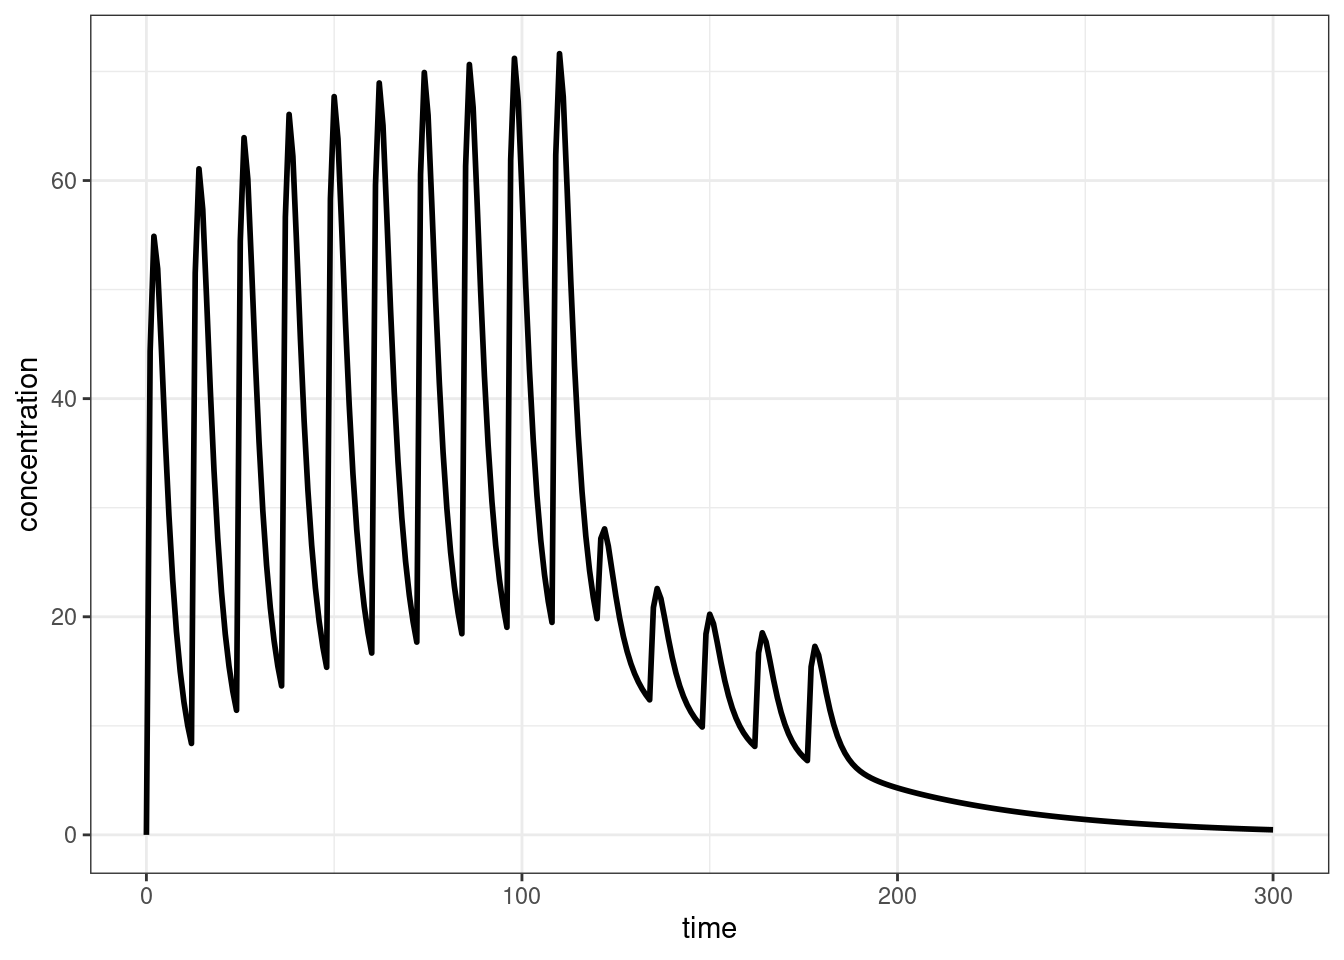
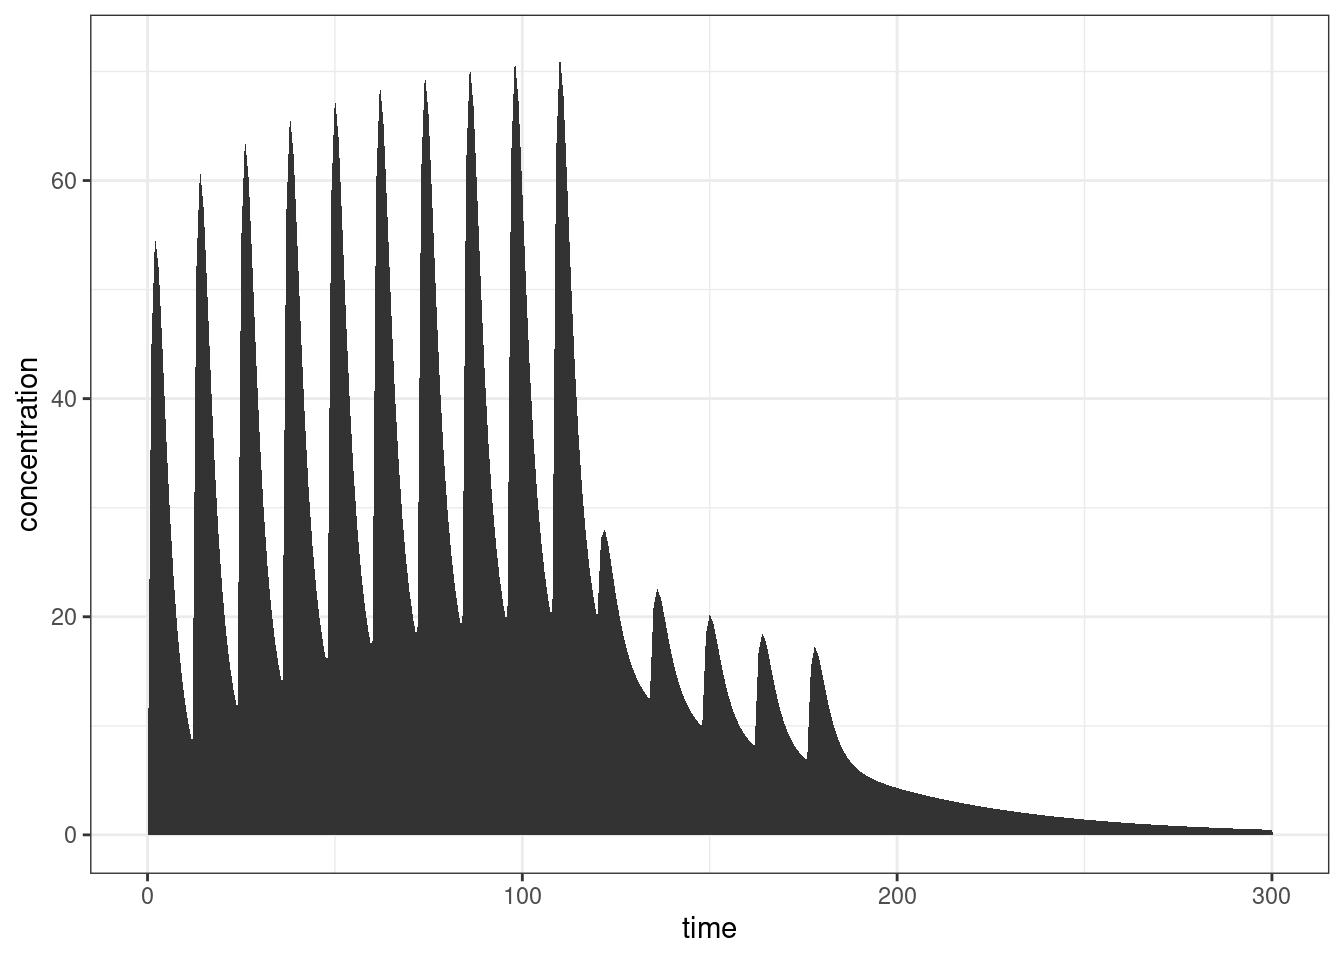
moar updating

Changed region(s): [[0.0938, 0.0625, 0.9375, 0.875], [0.9375, 0.9062, 0.9688, 0.9375], [0.375, 0.9062, 0.4062, 0.9375]]

diff --git a/_site/posts/2023-08-20_rxode2/index.html b/_site/posts/2023-08-20_rxode2/index.html
@@ -207,7 +207,8 @@ pre > code.sourceCode > span > a:first-child::before { text-decoration: underlin
   <li><a href="#the-rxode2-mini-language" id="toc-the-rxode2-mini-language" class="nav-link" data-scroll-target="#the-rxode2-mini-language">The rxode2 mini-language</a></li>
   <li><a href="#the-rxode2-model-object" id="toc-the-rxode2-model-object" class="nav-link" data-scroll-target="#the-rxode2-model-object">The rxode2 model object</a></li>
   <li><a href="#event-tables" id="toc-event-tables" class="nav-link" data-scroll-target="#event-tables">Event tables</a></li>
-  <li><a href="#running-a-small-simulation" id="toc-running-a-small-simulation" class="nav-link" data-scroll-target="#running-a-small-simulation">Running a small simulation</a></li>
+  <li><a href="#simulating-one-subject" id="toc-simulating-one-subject" class="nav-link" data-scroll-target="#simulating-one-subject">Simulating one subject</a></li>
+  <li><a href="#simulating-multiple-subjects" id="toc-simulating-multiple-subjects" class="nav-link" data-scroll-target="#simulating-multiple-subjects">Simulating multiple subjects</a></li>
   </ul>
 </nav>
 </nav>
@@ -301,8 +302,8 @@ pre > code.sourceCode > span > a:first-child::before { text-decoration: underlin
 <p>Like many R packages that generate compiled code, rxode2 manages the compiled object for you. The long unintelligible “name” assigned to our model gives us the hint we need to find the compiled objects. Within the R session temp directory, the rxode2 package has created an “rxode2” subfolder.<a href="#fn8" class="footnote-ref" id="fnref8" role="doc-noteref"><sup>8</sup></a> And indeed, if I take a peek at the contents of this folder, I find something with an identical name:</p>
 <div class="cell">
 <div class="sourceCode cell-code" id="cb8"><pre class="sourceCode r code-with-copy"><code class="sourceCode r"><span id="cb8-1"><a href="#cb8-1" aria-hidden="true" tabindex="-1"></a>fs<span class="sc">::</span><span class="fu">dir_ls</span>(fs<span class="sc">::</span><span class="fu">path</span>(<span class="fu">tempdir</span>(), <span class="st">"rxode2"</span>))</span></code><button title="Copy to Clipboard" class="code-copy-button"><i class="bi"></i></button></pre></div>
-<pre class="fansi fansi-output"><code>/tmp/Rtmp09SH1Q/rxode2/018374b1ca9115fbc3be9f765f32e47f.md5
-<span style="color: #0000BB; font-weight: bold;">/tmp/Rtmp09SH1Q/rxode2/rx_7b738a16dd646d432336a380787bd163__.rxd</span>
+<pre class="fansi fansi-output"><code>/tmp/Rtmpf9y5Hc/rxode2/018374b1ca9115fbc3be9f765f32e47f.md5
+<span style="color: #0000BB; font-weight: bold;">/tmp/Rtmpf9y5Hc/rxode2/rx_7b738a16dd646d432336a380787bd163__.rxd</span>
 </code></pre>
 </div>
 <p>Okay, makes sense.</p>
@@ -392,8 +393,8 @@ multiple doses in `addl` columns, expand with <span style="color: #BBBB00;">x</s
 <span id="cb13-4"><a href="#cb13-4" aria-hidden="true" tabindex="-1"></a>  <span class="fu">et</span>(<span class="at">time =</span> <span class="dv">0</span><span class="sc">:</span><span class="dv">300</span>)</span></code><button title="Copy to Clipboard" class="code-copy-button"><i class="bi"></i></button></pre></div>
 </div>
 </section>
-<section id="running-a-small-simulation" class="level2">
-<h2 class="anchored" data-anchor-id="running-a-small-simulation">Running a small simulation</h2>
+<section id="simulating-one-subject" class="level2">
+<h2 class="anchored" data-anchor-id="simulating-one-subject">Simulating one subject</h2>
 <div class="cell">
 <div class="sourceCode cell-code" id="cb14"><pre class="sourceCode r code-with-copy"><code class="sourceCode r"><span id="cb14-1"><a href="#cb14-1" aria-hidden="true" tabindex="-1"></a><span class="fu">library</span>(tibble)</span>
 <span id="cb14-2"><a href="#cb14-2" aria-hidden="true" tabindex="-1"></a><span class="fu">library</span>(ggplot2)</span></code><button title="Copy to Clipboard" class="code-copy-button"><i class="bi"></i></button></pre></div>
@@ -459,13 +460,89 @@ multiple doses in `addl` columns, expand with <span style="color: #BBBB00;">x</s
 <p>Extremely pretty print method notwithstanding, under the hood it’s nothing fancy. It’s a regular data frame with a few extra classes and some metadata, which means we can pass it straight to ggplot without any coercion, and draw a pretty picture:</p>
 <div class="cell">
 <div class="sourceCode cell-code" id="cb20"><pre class="sourceCode r code-with-copy"><code class="sourceCode r"><span id="cb20-1"><a href="#cb20-1" aria-hidden="true" tabindex="-1"></a><span class="fu">ggplot</span>(out, <span class="fu">aes</span>(time, CP)) <span class="sc">+</span> </span>
-<span id="cb20-2"><a href="#cb20-2" aria-hidden="true" tabindex="-1"></a>  <span class="fu">geom_line</span>(<span class="at">linewidth =</span> <span class="dv">1</span>) <span class="sc">+</span> </span>
+<span id="cb20-2"><a href="#cb20-2" aria-hidden="true" tabindex="-1"></a>  <span class="fu">geom_area</span>(<span class="at">linewidth =</span> <span class="dv">1</span>) <span class="sc">+</span> </span>
 <span id="cb20-3"><a href="#cb20-3" aria-hidden="true" tabindex="-1"></a>  <span class="fu">ylab</span>(<span class="st">"concentration"</span>) <span class="sc">+</span></span>
 <span id="cb20-4"><a href="#cb20-4" aria-hidden="true" tabindex="-1"></a>  <span class="fu">theme_bw</span>()</span></code><button title="Copy to Clipboard" class="code-copy-button"><i class="bi"></i></button></pre></div>
 <div class="cell-output-display">
 <p><img src="index_files/figure-html/unnamed-chunk-16-1.png" class="img-fluid" width="672"></p>
 </div>
 </div>
+</section>
+<section id="simulating-multiple-subjects" class="level2">
+<h2 class="anchored" data-anchor-id="simulating-multiple-subjects">Simulating multiple subjects</h2>
+<div class="cell">
+<div class="sourceCode cell-code" id="cb21"><pre class="sourceCode r code-with-copy"><code class="sourceCode r"><span id="cb21-1"><a href="#cb21-1" aria-hidden="true" tabindex="-1"></a>params <span class="ot">&lt;-</span> <span class="fu">tibble</span>(</span>
+<span id="cb21-2"><a href="#cb21-2" aria-hidden="true" tabindex="-1"></a>  <span class="at">KA =</span> <span class="fu">rnorm</span>(<span class="dv">20</span>, <span class="at">mean =</span> <span class="fl">0.294</span>, <span class="at">sd =</span> <span class="fl">0.03</span>),</span>
+<span id="cb21-3"><a href="#cb21-3" aria-hidden="true" tabindex="-1"></a>  <span class="at">CL =</span> <span class="fu">rnorm</span>(<span class="dv">20</span>, <span class="at">mean =</span> <span class="fl">18.6</span>, <span class="at">sd =</span> <span class="dv">2</span>),</span>
+<span id="cb21-4"><a href="#cb21-4" aria-hidden="true" tabindex="-1"></a>  <span class="at">VC =</span> <span class="fu">rnorm</span>(<span class="dv">20</span>, <span class="at">mean =</span> <span class="fl">40.2</span>, <span class="at">sd =</span> <span class="dv">2</span>),</span>
+<span id="cb21-5"><a href="#cb21-5" aria-hidden="true" tabindex="-1"></a>  <span class="at">VP =</span> <span class="fu">rnorm</span>(<span class="dv">20</span>, <span class="at">mean =</span> <span class="dv">297</span>, <span class="at">sd =</span> <span class="dv">10</span>),</span>
+<span id="cb21-6"><a href="#cb21-6" aria-hidden="true" tabindex="-1"></a>  <span class="at">Q =</span> <span class="fu">rnorm</span>(<span class="dv">20</span>, <span class="at">mean =</span> <span class="fl">10.5</span>, <span class="at">sd =</span> <span class="dv">1</span>)</span>
+<span id="cb21-7"><a href="#cb21-7" aria-hidden="true" tabindex="-1"></a>)</span>
+<span id="cb21-8"><a href="#cb21-8" aria-hidden="true" tabindex="-1"></a></span>
+<span id="cb21-9"><a href="#cb21-9" aria-hidden="true" tabindex="-1"></a>out <span class="ot">&lt;-</span> <span class="fu">solve</span>(mod, params, events)</span></code><button title="Copy to Clipboard" class="code-copy-button"><i class="bi"></i></button></pre></div>
+</div>
+<p>I’ll show you the <code>out</code> object in a moment, but it’s probably easier to understand it if we start with a plot:</p>
+<div class="cell">
+<div class="sourceCode cell-code" id="cb22"><pre class="sourceCode r code-with-copy"><code class="sourceCode r"><span id="cb22-1"><a href="#cb22-1" aria-hidden="true" tabindex="-1"></a>out <span class="sc">|&gt;</span></span>
+<span id="cb22-2"><a href="#cb22-2" aria-hidden="true" tabindex="-1"></a>  dplyr<span class="sc">::</span><span class="fu">mutate</span>(<span class="at">sim.id =</span> <span class="fu">paste</span>(<span class="st">"Subject"</span>, sim.id)) <span class="sc">|&gt;</span></span>
+<span id="cb22-3"><a href="#cb22-3" aria-hidden="true" tabindex="-1"></a>  <span class="fu">ggplot</span>(<span class="fu">aes</span>(time, CP, <span class="at">fill =</span> sim.id)) <span class="sc">+</span> </span>
+<span id="cb22-4"><a href="#cb22-4" aria-hidden="true" tabindex="-1"></a>  <span class="fu">geom_area</span>(<span class="at">linewidth =</span> <span class="dv">1</span>, <span class="at">show.legend =</span> <span class="cn">FALSE</span>) <span class="sc">+</span> </span>
+<span id="cb22-5"><a href="#cb22-5" aria-hidden="true" tabindex="-1"></a>  <span class="fu">facet_wrap</span>(<span class="sc">~</span> sim.id, <span class="at">nrow =</span> <span class="dv">5</span>) <span class="sc">+</span> </span>
+<span id="cb22-6"><a href="#cb22-6" aria-hidden="true" tabindex="-1"></a>  <span class="fu">labs</span>(<span class="at">x =</span> <span class="st">"Time"</span>, <span class="at">y =</span> <span class="st">"Concentration"</span>) <span class="sc">+</span></span>
+<span id="cb22-7"><a href="#cb22-7" aria-hidden="true" tabindex="-1"></a>  <span class="fu">theme_bw</span>()</span></code><button title="Copy to Clipboard" class="code-copy-button"><i class="bi"></i></button></pre></div>
+<div class="cell-output-display">
+<p><img src="index_files/figure-html/unnamed-chunk-18-1.png" class="img-fluid" width="672"></p>
+</div>
+</div>
+<p>As you can see, all 20 subjects have qualitatively similar profiles, but there are noticeable differences in the details. Not surprisingly really. I didn’t build in very much variability into the simulation, and I didn’t even <em>try</em> to incorporate an appropriate covariance structure among the parameters (that’s a topic for another post). The main thing that matters here is that we can see that the variation <em>exists</em>.</p>
+<p>Anyway, let’s have a look at the table of results <code>out</code> produced by our simulation. As you probably guessed from the ggplot2 code, there’s a column called <code>sim.id</code> that stores the subject identifier, and there are 20 times as many rows as last time, but it’s essentially the same:</p>
+<div class="cell">
+<div class="sourceCode cell-code" id="cb23"><pre class="sourceCode r code-with-copy"><code class="sourceCode r"><span id="cb23-1"><a href="#cb23-1" aria-hidden="true" tabindex="-1"></a>out</span></code><button title="Copy to Clipboard" class="code-copy-button"><i class="bi"></i></button></pre></div>
+<pre class="fansi fansi-output"><code><span style="font-weight: bold;">── Solved rxode2 object ──</span>
+<span style="font-weight: bold;">── Parameters (</span><span style="color: #BBBB00; font-weight: bold;">x</span><span style="color: #0000BB; font-weight: bold;">$params</span><span style="font-weight: bold;">): ──</span>
+<span style="color: #555555;"># A tibble: 20 × 6</span>
+   sim.id    VC    VP    KA     Q    CL
+    <span style="color: #555555; font-style: italic;">&lt;int&gt;</span> <span style="color: #555555; font-style: italic;">&lt;dbl&gt;</span> <span style="color: #555555; font-style: italic;">&lt;dbl&gt;</span> <span style="color: #555555; font-style: italic;">&lt;dbl&gt;</span> <span style="color: #555555; font-style: italic;">&lt;dbl&gt;</span> <span style="color: #555555; font-style: italic;">&lt;dbl&gt;</span>
+<span style="color: #555555;"> 1</span>      1  39.9  321. 0.275  9.93  20.4
+<span style="color: #555555;"> 2</span>      2  39.7  297. 0.300 10.4   20.2
+<span style="color: #555555;"> 3</span>      3  41.6  304. 0.269 11.7   18.7
+<span style="color: #555555;"> 4</span>      4  41.3  297. 0.342  8.98  14.6
+<span style="color: #555555;"> 5</span>      5  38.8  290. 0.304 11.1   19.8
+<span style="color: #555555;"> 6</span>      6  38.8  299. 0.269 10.8   18.5
+<span style="color: #555555;"> 7</span>      7  40.9  279. 0.309 11.6   18.3
+<span style="color: #555555;"> 8</span>      8  41.7  312. 0.316 10.2   15.7
+<span style="color: #555555;"> 9</span>      9  40.0  299. 0.311 10.9   17.6
+<span style="color: #555555;">10</span>     10  42.0  319. 0.285 10.8   19.4
+<span style="color: #555555;">11</span>     11  41.0  302. 0.339  9.96  21.3
+<span style="color: #555555;">12</span>     12  39.0  290. 0.306 11.7   18.4
+<span style="color: #555555;">13</span>     13  40.9  303. 0.275 11.7   19.4
+<span style="color: #555555;">14</span>     14  37.9  288. 0.228 11.2   18.5
+<span style="color: #555555;">15</span>     15  43.1  284. 0.328 12.1   15.8
+<span style="color: #555555;">16</span>     16  44.2  300. 0.293 11.1   17.8
+<span style="color: #555555;">17</span>     17  39.5  293. 0.294  9.22  17.8
+<span style="color: #555555;">18</span>     18  38.1  297. 0.322  9.93  18.5
+<span style="color: #555555;">19</span>     19  41.3  298. 0.319  9.28  20.8
+<span style="color: #555555;">20</span>     20  39.9  291. 0.312 10.0   20.1
+<span style="font-weight: bold;">── Initial Conditions (</span><span style="color: #BBBB00; font-weight: bold;">x</span><span style="color: #0000BB; font-weight: bold;">$inits</span><span style="font-weight: bold;">): ──</span>
+     depot    central peripheral        auc 
+         0          0          0          0 
+
+Simulation <span style="font-weight: bold;">without uncertainty</span> in parameters, omega, or sigma matricies
+
+<span style="font-weight: bold;">── First part of data (object): ──</span>
+<span style="color: #555555;"># A tibble: 6,020 × 8</span>
+  sim.id  time    CP    PP  depot central peripheral   auc
+   <span style="color: #555555; font-style: italic;">&lt;int&gt;</span> <span style="color: #555555; font-style: italic;">&lt;dbl&gt;</span> <span style="color: #555555; font-style: italic;">&lt;dbl&gt;</span> <span style="color: #555555; font-style: italic;">&lt;dbl&gt;</span>  <span style="color: #555555; font-style: italic;">&lt;dbl&gt;</span>   <span style="color: #555555; font-style: italic;">&lt;dbl&gt;</span>      <span style="color: #555555; font-style: italic;">&lt;dbl&gt;</span> <span style="color: #555555; font-style: italic;">&lt;dbl&gt;</span>
+<span style="color: #555555;">1</span>      1     0   0   0     <span style="text-decoration: underline;">10</span>000       0          0    0  
+<span style="color: #555555;">2</span>      1     1  41.6 0.757  <span style="text-decoration: underline;">7</span>594.   <span style="text-decoration: underline;">1</span>657.       243.  24.7
+<span style="color: #555555;">3</span>      1     2  51.2 2.20   <span style="text-decoration: underline;">5</span>767.   <span style="text-decoration: underline;">2</span>041.       705.  72.7
+<span style="color: #555555;">4</span>      1     3  48.4 3.66   <span style="text-decoration: underline;">4</span>380.   <span style="text-decoration: underline;">1</span>928.      <span style="text-decoration: underline;">1</span>176. 123. 
+<span style="color: #555555;">5</span>      1     4  41.5 4.93   <span style="text-decoration: underline;">3</span>326.   <span style="text-decoration: underline;">1</span>656.      <span style="text-decoration: underline;">1</span>581. 168. 
+<span style="color: #555555;">6</span>      1     5  34.2 5.93   <span style="text-decoration: underline;">2</span>526.   <span style="text-decoration: underline;">1</span>362.      <span style="text-decoration: underline;">1</span>902. 206. 
+<span style="color: #555555;"># ℹ 6,014 more rows</span>
+</code></pre>
+</div>
+<p>As we’ve seen throughout the post, the print method has lots of nice touches. It shows the simulation parameters as well as the simulation results, and has a very gentle message reminding me I haven’t incorporated measurement error, random effects, or parameter uncertainty. Which… I mean, I intentionally left those things out, but actually I do appreciate the clear statement of what <em>wasn’t</em> done here.</p>
 
 
 </section>

diff --git a/_site/index.html b/_site/index.html
@@ -188,7 +188,7 @@ ul.task-list li input[type="checkbox"] {
 
 <div class="quarto-listing quarto-listing-container-grid" id="listing-listing">
 <div class="list grid quarto-listing-cols-3">
-<div class="g-col-1" data-index="0" data-listing-date-sort="1692453600000" data-listing-file-modified-sort="1692933361110" data-listing-date-modified-sort="NaN" data-listing-reading-time-sort="12">
+<div class="g-col-1" data-index="0" data-listing-date-sort="1692453600000" data-listing-file-modified-sort="1692935192964" data-listing-date-modified-sort="NaN" data-listing-reading-time-sort="13">
 <a href="./posts/2023-08-20_rxode2/index.html" class="quarto-grid-link">
 <div class="quarto-grid-item card h-100 card-left">
 <p class="card-img-top"><img src="posts/2023-08-20_rxode2/index_files/figure-html/unnamed-chunk-16-1.png" style="height: 250px;"  class="thumbnail-image card-img"/></p>
